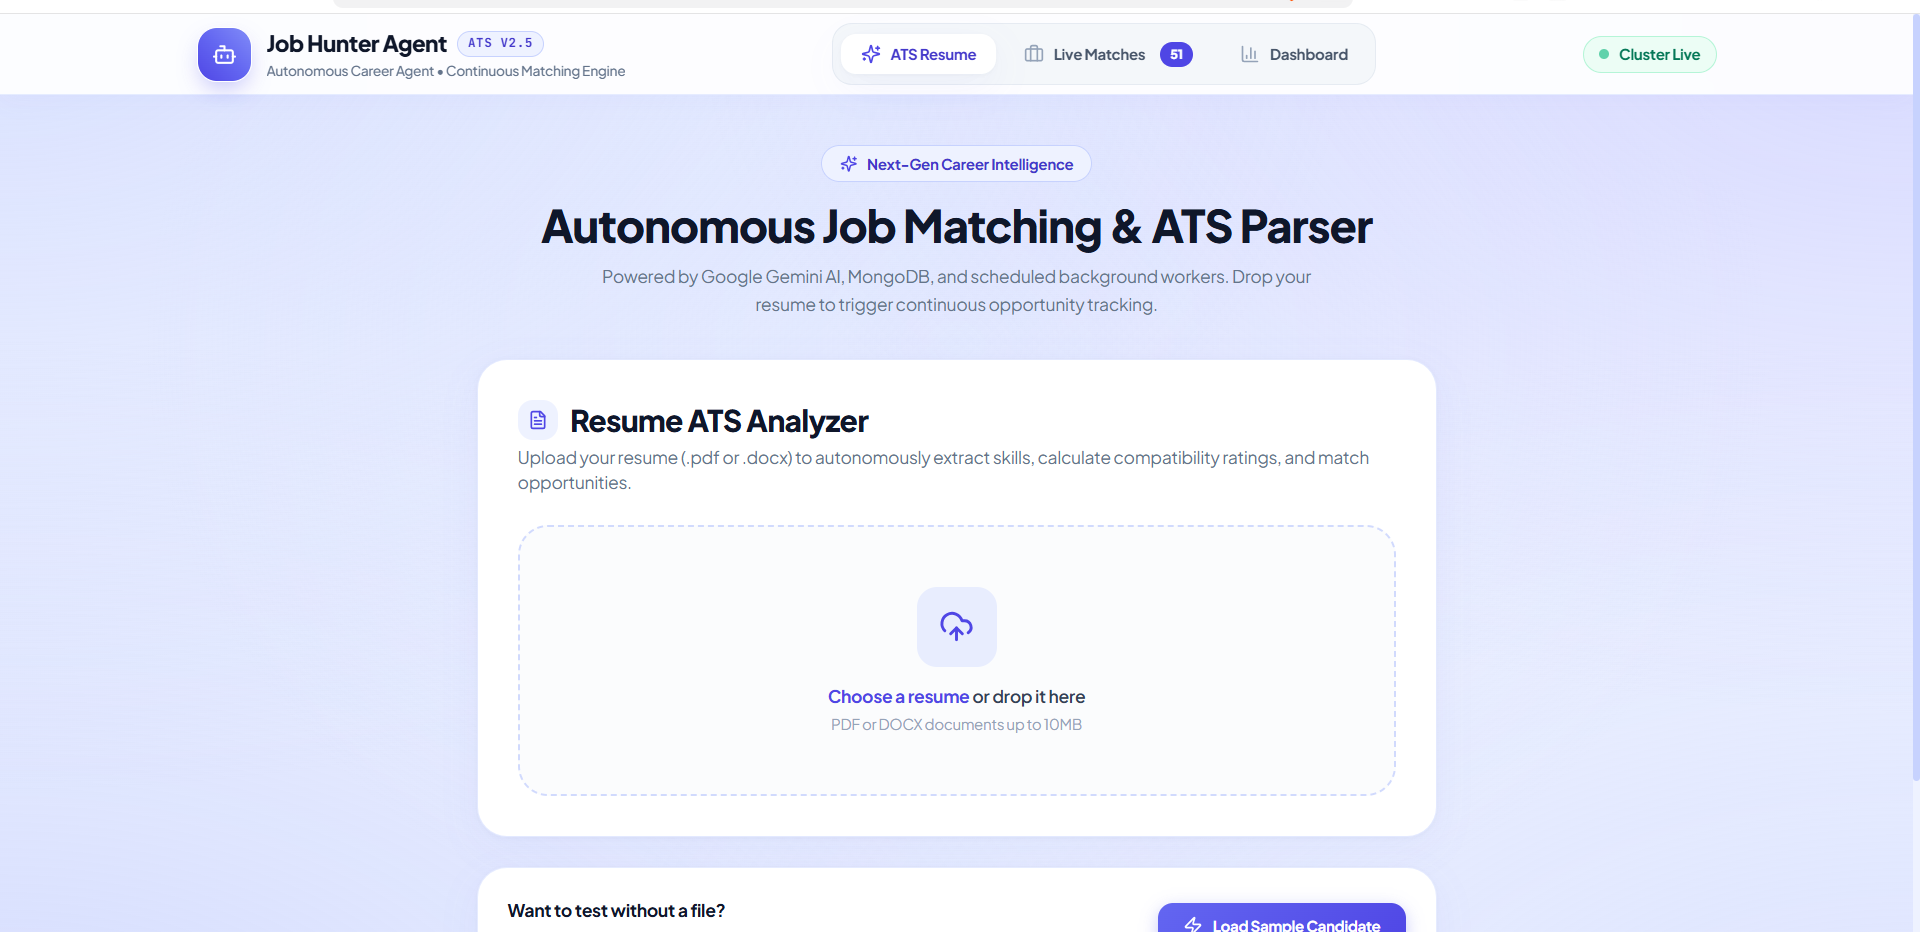
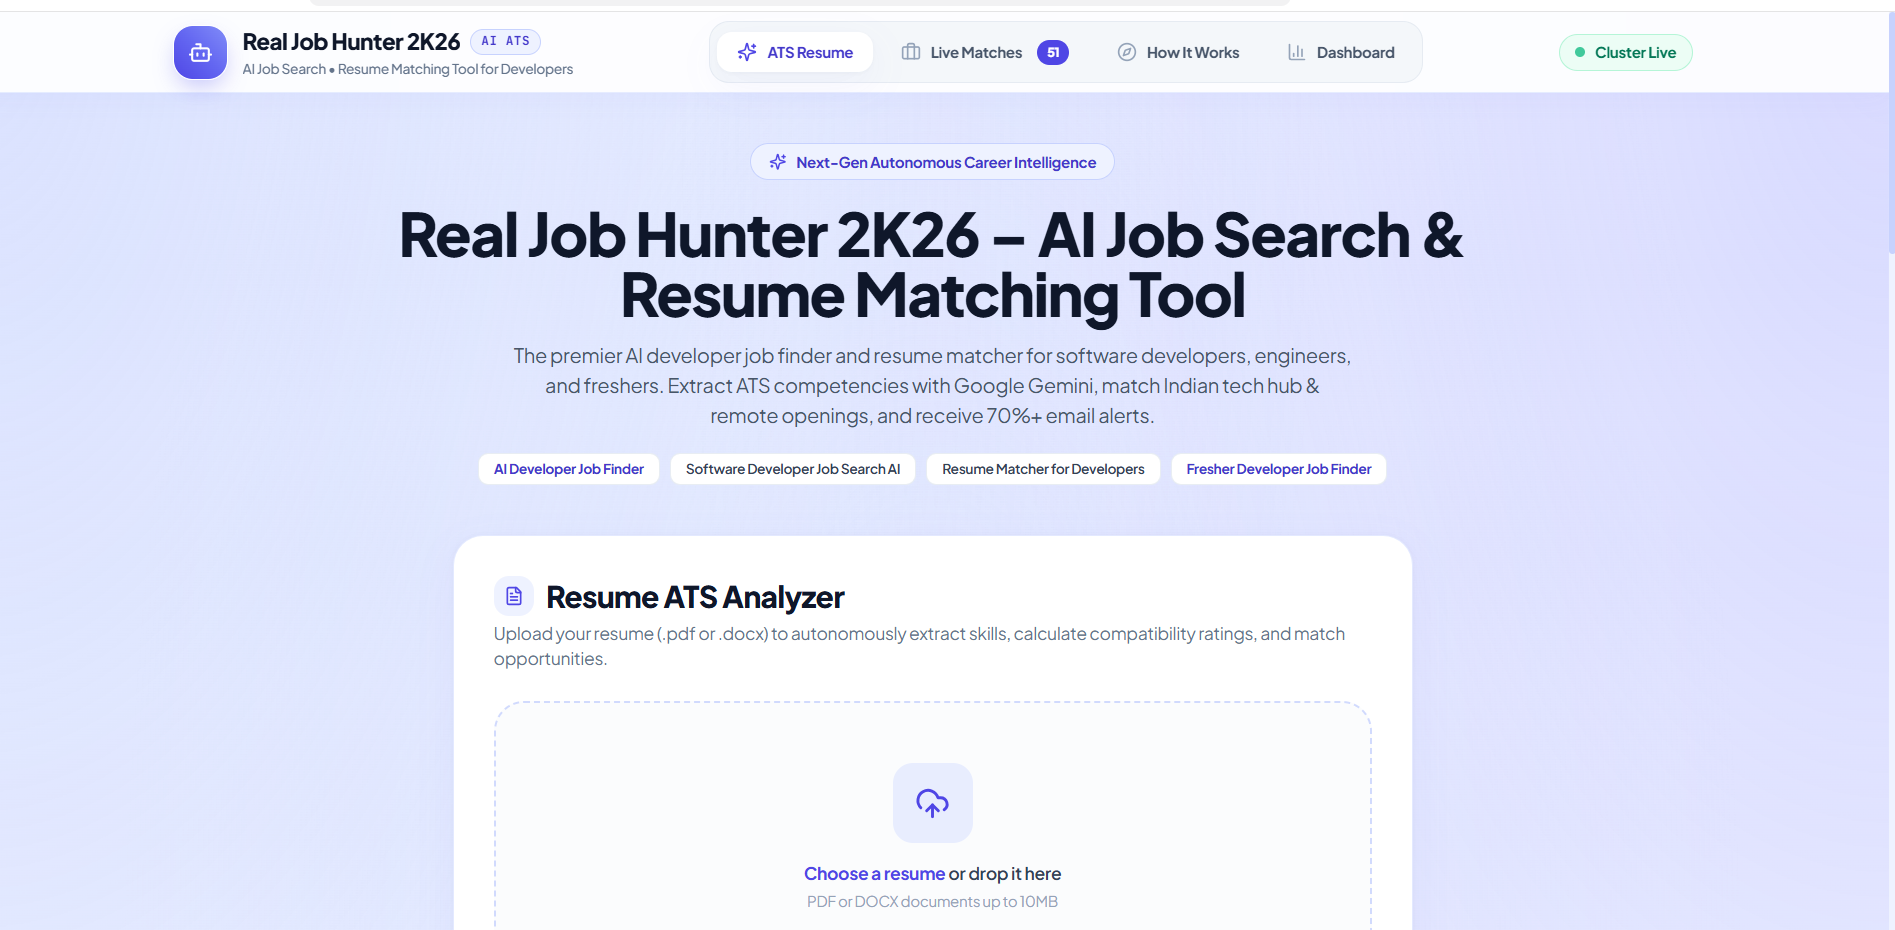
job hunter project added

diff --git a/src/Components/Portfolio.jsx b/src/Components/Portfolio.jsx
@@ -7,7 +7,7 @@ import rsPhotography from '../assets/rsphotography.png';
 import realState from '../assets/real_state.png';
 import movieBooking from '../assets/movie.png';
 import sanjuDev from '../assets/sanju.jpg';
-import jobHunter from '../assets/JobHunter.png';
+import JobHunter from '../assets/JobHunter.png';
 
 const projects = [
   {
@@ -34,7 +34,7 @@ const projects = [
     title: "Real Job Hunter 2K26",
     subtitle: "AI-Powered Job Matching & Application Automation",
     description: "A production-oriented AI job automation platform that analyzes uploaded resumes, discovers relevant job opportunities from supported job platforms, matches candidates with relevant roles using AI, and provides personalized job recommendations with direct application links.",
-    image: jobHunter,
+    image: JobHunter,
     categories: ['fullstack', 'ai'],
     technologies: [
       "React.js",
